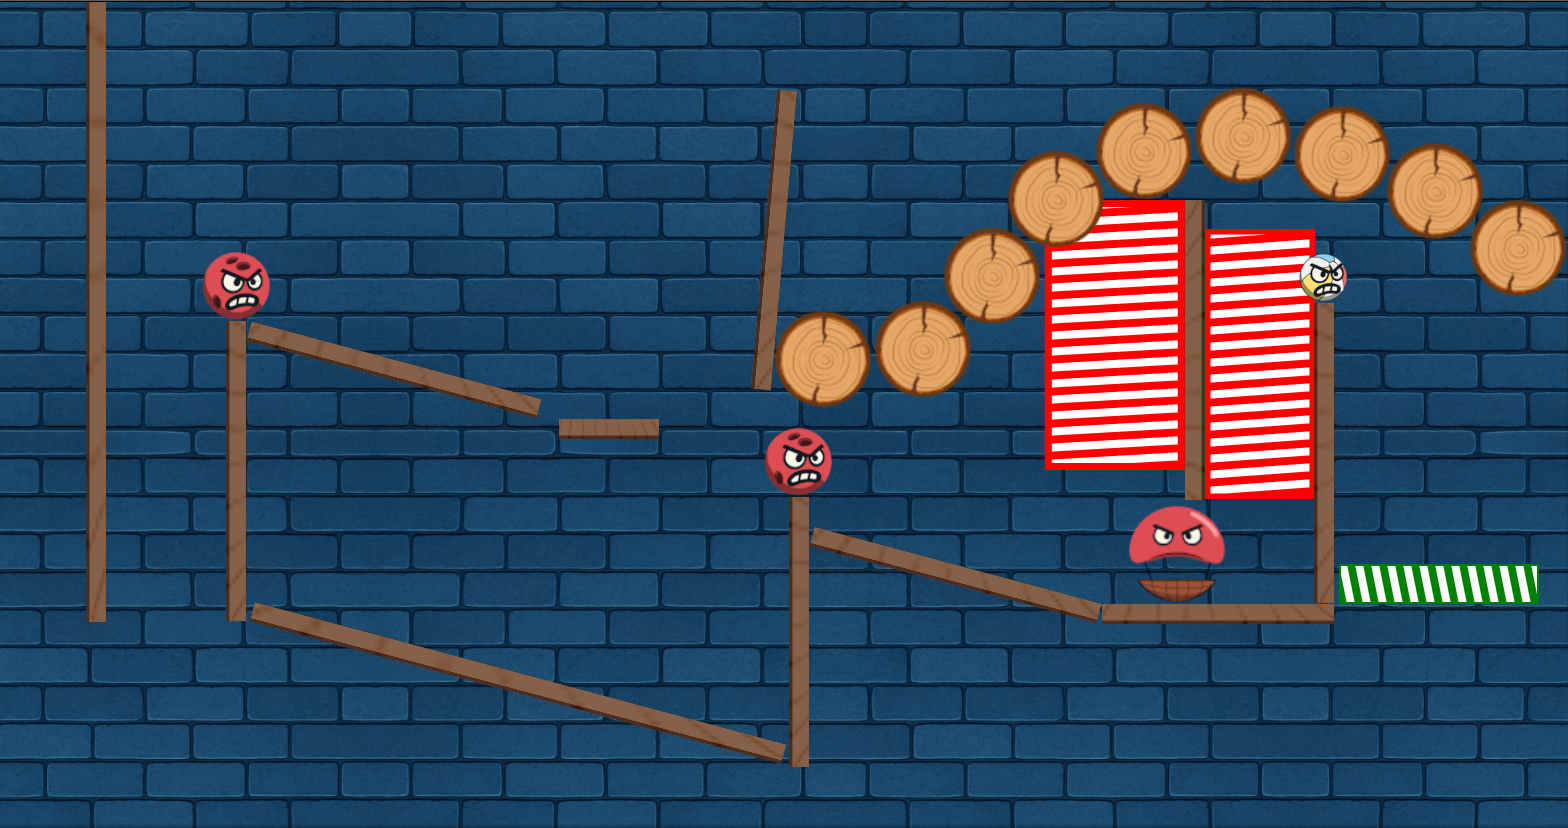
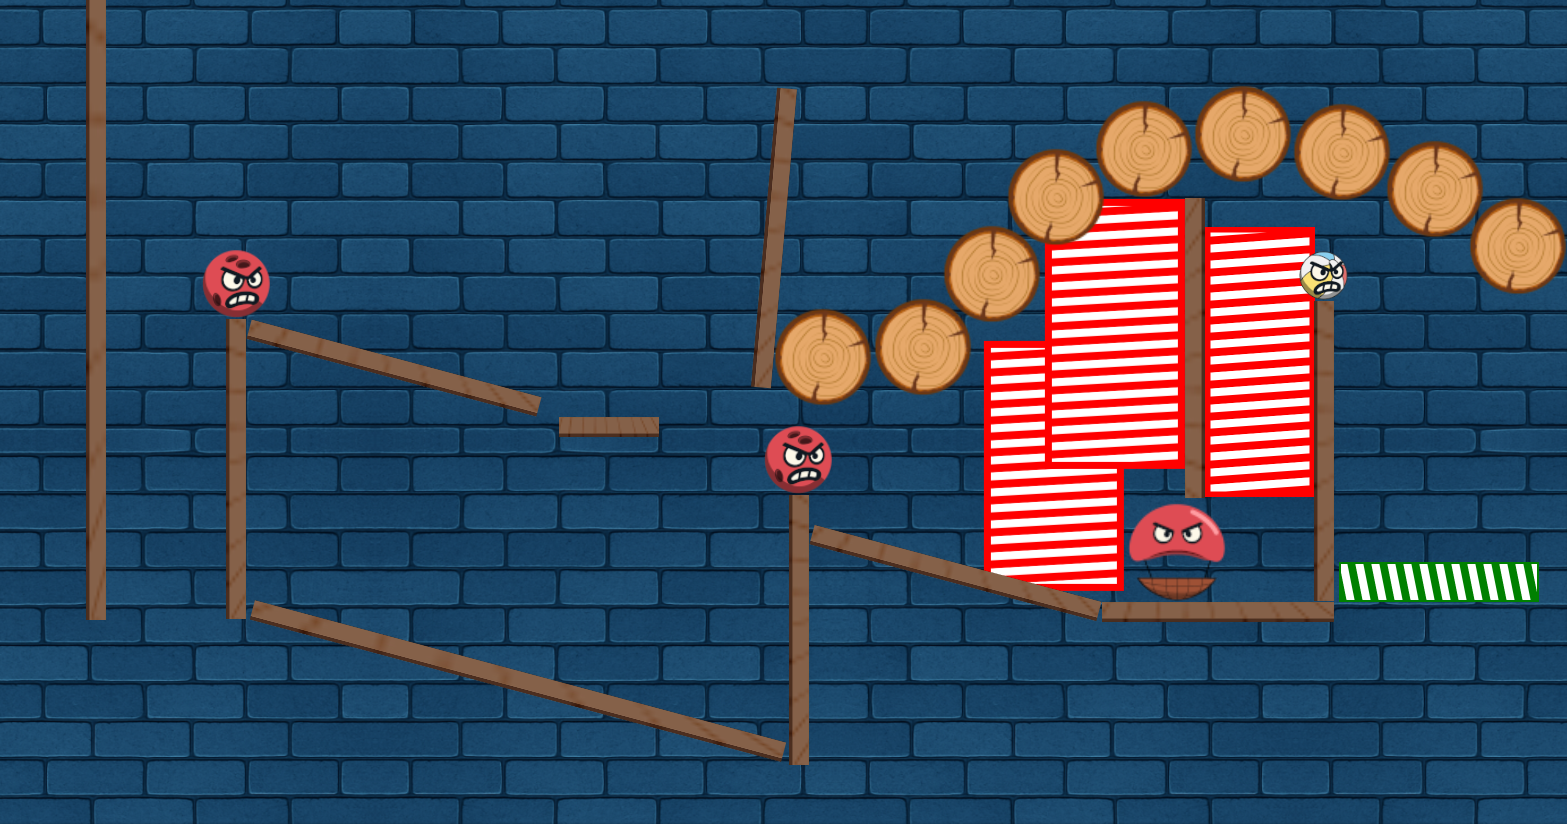
- Fixed level 3 Domino cheese - Updated level 3 preview after cheese fix - Removed left over bottombar textures

diff --git a/src/main/resources/styling/simulation.css b/src/main/resources/styling/simulation.css
@@ -109,8 +109,8 @@
 .bottom-bar {
   background-color: #0e1722;
   -fx-background-color: #0e1722;
-  background-image: url("/pictures/bottombar2.png");
-  -fx-background-image: url("/pictures/bottombar2.png");
+  background-image: url("/pictures/bottombar.png");
+  -fx-background-image: url("/pictures/bottombar.png");
   background-repeat: no-repeat;
   -fx-background-repeat: no-repeat;
   background-position: center;

diff --git a/src/main/java/mm/view/SimulationView.java b/src/main/java/mm/view/SimulationView.java
@@ -95,10 +95,10 @@ public class SimulationView {
 
         /** Root stack pane that layers the main content and overlays */
         public StackPane rootStack;
-        
+
         /** JSON viewer area showing real-time simulation state */
         public TextArea jsonViewer;
-        
+
         /** ScrollPane containing the JSON viewer */
         public ScrollPane jsonScrollPane;
     }
@@ -227,7 +227,8 @@ public class SimulationView {
      * Creates the main pane, simulation space, and bottom bar with proper styling
      * and size constraints.
      * 
-     * @param isPuzzleMode true if in puzzle mode (no JSON viewer), false for sandbox mode
+     * @param isPuzzleMode true if in puzzle mode (no JSON viewer), false for
+     *                     sandbox mode
      */
     private void initializeMainComponents(boolean isPuzzleMode) {
         layout.mainPane = new BorderPane();
@@ -266,47 +267,47 @@ public class SimulationView {
      * @param isPuzzleMode true if in puzzle mode, false for sandbox mode
      */
     private void createBottomBar(boolean isPuzzleMode) {
-    layout.bottomBar = new HBox();
-    layout.bottomBar.getStyleClass().add("bottom-bar");
-    
-    layout.bottomBar.setPrefHeight(200);
-    layout.bottomBar.setMaxHeight(200);
-    layout.bottomBar.setMinHeight(200);
-    // Add padding inside the bottom bar
-    layout.bottomBar.setSpacing(10);
-    layout.bottomBar.setStyle("-fx-padding: 10;");
-    
-    if (!isPuzzleMode) {
-        // Sandbox mode: add JSON viewer directly (no ScrollPane wrapper)
-        createJsonViewer();
-        layout.bottomBar.getChildren().add(layout.jsonViewer);
-        HBox.setHgrow(layout.jsonViewer, Priority.ALWAYS);
-    } else {
-        // Puzzle mode: set background image for bottom bar
-        try {
-            String bottomBarImagePath = getClass().getResource("/pictures/bottombar2.png").toExternalForm();
-            layout.bottomBar.setStyle("-fx-background-color: transparent; " +
-                    "-fx-background-image: url('" + bottomBarImagePath + "'); " +
-                    "-fx-background-repeat: no-repeat; " +
-                    "-fx-background-position: center; " +
-                    "-fx-background-size: cover;");
-            System.out.println("Bottom bar background image loaded successfully: " + bottomBarImagePath);
-        } catch (Exception e) {
-            System.err.println("Warning: Could not load bottom bar background image: " + e.getMessage());
+        layout.bottomBar = new HBox();
+        layout.bottomBar.getStyleClass().add("bottom-bar");
+
+        layout.bottomBar.setPrefHeight(200);
+        layout.bottomBar.setMaxHeight(200);
+        layout.bottomBar.setMinHeight(200);
+        // Add padding inside the bottom bar
+        layout.bottomBar.setSpacing(10);
+        layout.bottomBar.setStyle("-fx-padding: 10;");
+
+        if (!isPuzzleMode) {
+            // Sandbox mode: add JSON viewer directly (no ScrollPane wrapper)
+            createJsonViewer();
+            layout.bottomBar.getChildren().add(layout.jsonViewer);
+            HBox.setHgrow(layout.jsonViewer, Priority.ALWAYS);
+        } else {
+            // Puzzle mode: set background image for bottom bar
+            try {
+                String bottomBarImagePath = getClass().getResource("/pictures/bottombar.png").toExternalForm();
+                layout.bottomBar.setStyle("-fx-background-color: transparent; " +
+                        "-fx-background-image: url('" + bottomBarImagePath + "'); " +
+                        "-fx-background-repeat: no-repeat; " +
+                        "-fx-background-position: center; " +
+                        "-fx-background-size: cover;");
+                System.out.println("Bottom bar background image loaded successfully: " + bottomBarImagePath);
+            } catch (Exception e) {
+                System.err.println("Warning: Could not load bottom bar background image: " + e.getMessage());
+            }
         }
     }
-}
 
     private void createJsonViewer() {
-    layout.jsonViewer = new TextArea();
-    layout.jsonViewer.setEditable(true);
-    layout.jsonViewer.getStyleClass().add("json-viewer");
-    layout.jsonViewer.setWrapText(false);
-    // Remove fixed height constraints - let it fill the bottom bar completely
-    layout.jsonViewer.setPrefHeight(Region.USE_COMPUTED_SIZE);
-    layout.jsonViewer.setMinHeight(Region.USE_PREF_SIZE);
-    layout.jsonViewer.setMaxHeight(Region.USE_COMPUTED_SIZE);
-}
+        layout.jsonViewer = new TextArea();
+        layout.jsonViewer.setEditable(true);
+        layout.jsonViewer.getStyleClass().add("json-viewer");
+        layout.jsonViewer.setWrapText(false);
+        // Remove fixed height constraints - let it fill the bottom bar completely
+        layout.jsonViewer.setPrefHeight(Region.USE_COMPUTED_SIZE);
+        layout.jsonViewer.setMinHeight(Region.USE_PREF_SIZE);
+        layout.jsonViewer.setMaxHeight(Region.USE_COMPUTED_SIZE);
+    }
 
     /**
      * Creates the sidebar with inventory and control buttons.
@@ -375,7 +376,7 @@ public class SimulationView {
     private void setupMainLayout(boolean isPuzzleMode) {
         layout.mainPane.setCenter(layout.simSpace);
         layout.mainPane.setRight(layout.sideBar);
-        
+
         // Always add bottom bar (content varies by mode)
         layout.mainPane.setBottom(layout.bottomBar);
     }
@@ -472,7 +473,7 @@ public class SimulationView {
     public VBox getSideBar() {
         return layout.sideBar;
     }
-    
+
     /** @return the bottom bar (only available in sandbox mode) */
     public HBox getBottomBar() {
         return layout.bottomBar;
